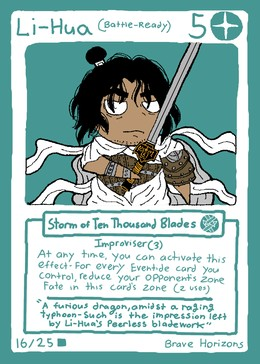
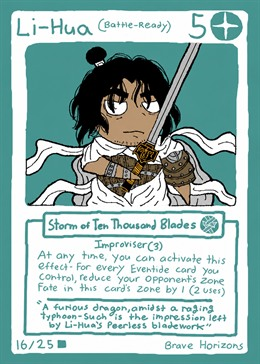
Restore public decks and polish new card updates

diff --git a/src/styles/zz-codex-last.css b/src/styles/zz-codex-last.css
@@ -24761,12 +24761,12 @@ html body #s-game .cell.henry-suppressed-empty::after{
 /* Four-digit Challenger ELO only: retain the normal size for shorter values. */
 html body #s-challenger #ch-elo-val.four-digit-elo{
   position:relative!important;
-  left:-2px!important;
+  left:-3px!important;
   font-size:.9405em!important;
   letter-spacing:inherit!important;
 }
 html body #s-challenger .ch-v5-rank-combined .ch-v5-elo.is-four-digit{
-  left:-2px!important;
+  left:-3px!important;
   font-size:clamp(2.5rem,2.9vw,3.56rem)!important;
   transform:scale(.9405)!important;
   transform-origin:center center!important;
@@ -24982,7 +24982,7 @@ html body #s-social .social-online-command .social-online-card-rank .rank-badge-
 html body #modal .profile-view-badges .rank-badge.rank-badge-two-line .rank-badge-icon,
 html body #modal .profile-view-badges .rank-badge.rank-badge-two-line .rank-badge-label-two-line{
   position:relative!important;
-  left:1px!important;
+  left:4px!important;
 }
 html body #modal .profile-view-badges .rank-badge.rank-badge-two-line .rank-badge-label-two-line{
   display:inline-grid!important;
@@ -25006,6 +25006,64 @@ html body #modal .profile-view-badges .rank-badge.rank-badge-two-line .rank-badg
 html body #toast{
   z-index:2147483601!important;
 }
+
+/* Chloe Kirk: dedicated charter declaration instead of the generic option list. */
+html body #modal .modal.bh14-type-picker-modal{
+  width:min(980px,calc(100vw - 40px))!important;
+  max-width:980px!important;
+  padding:1.45rem 1.55rem 1.55rem!important;
+  overflow:hidden!important;
+  border:1px solid rgba(209,171,69,.82)!important;
+  background:linear-gradient(140deg,rgba(21,51,69,.32),transparent 42%),linear-gradient(180deg,#0c111b,#060910)!important;
+  box-shadow:0 32px 90px rgba(0,0,0,.8),inset 0 0 0 1px rgba(104,205,245,.08)!important;
+}
+html body #modal .modal.bh14-type-picker-modal #modal-title{
+  margin-bottom:.9rem!important;
+  padding-bottom:.72rem!important;
+  color:#efd888!important;
+  border-bottom:1px solid rgba(209,171,69,.3)!important;
+  letter-spacing:.075em!important;
+}
+html body #modal .modal.bh14-type-picker-modal #modal-acts{display:none!important;}
+html body #modal .bh14-charter-picker{display:grid!important;gap:1rem!important;}
+html body #modal .bh14-charter-head{
+  display:grid!important;
+  grid-template-columns:66px minmax(0,1fr)!important;
+  gap:1rem!important;
+  align-items:center!important;
+  padding:.9rem 1rem!important;
+  border:1px solid rgba(91,183,221,.3)!important;
+  border-left:3px solid #72cdec!important;
+  background:linear-gradient(90deg,rgba(24,73,96,.3),rgba(7,12,20,.52))!important;
+}
+html body #modal .bh14-charter-seal{
+  width:58px!important;height:58px!important;display:grid!important;place-items:center!important;
+  border:1px solid rgba(112,205,238,.68)!important;border-radius:50%!important;
+  color:#efd888!important;background:radial-gradient(circle,rgba(29,94,119,.5),rgba(7,13,21,.98) 70%)!important;
+  font:600 .82rem/1 Cinzel,serif!important;letter-spacing:.12em!important;
+  box-shadow:inset 0 0 0 6px rgba(5,10,17,.72),0 0 18px rgba(77,182,222,.12)!important;
+}
+html body #modal .bh14-charter-kicker{display:block!important;color:#77d1ef!important;font:600 .58rem/1 Cinzel,serif!important;letter-spacing:.2em!important;text-transform:uppercase!important;}
+html body #modal .bh14-charter-head strong{display:block!important;margin:.35rem 0 .22rem!important;color:#f3dea0!important;font:600 1.08rem/1.2 Cinzel,serif!important;letter-spacing:.035em!important;text-transform:uppercase!important;}
+html body #modal .bh14-charter-head p{margin:0!important;color:rgba(220,229,236,.68)!important;font:italic .75rem/1.42 Georgia,serif!important;}
+html body #modal .bh14-charter-grid{display:grid!important;grid-template-columns:repeat(5,minmax(0,1fr))!important;gap:.7rem!important;}
+html body #modal .bh14-charter-choice{
+  position:relative!important;min-width:0!important;min-height:184px!important;display:flex!important;flex-direction:column!important;align-items:center!important;
+  padding:.75rem .7rem .68rem!important;overflow:hidden!important;cursor:pointer!important;
+  border:1px solid rgba(170,138,48,.46)!important;border-radius:2px!important;
+  color:#e9d487!important;background:linear-gradient(160deg,rgba(18,32,44,.99),rgba(6,9,15,.99) 74%)!important;
+  box-shadow:inset 0 1px 0 rgba(255,255,255,.03),inset 0 -2px 0 rgba(102,200,236,.06)!important;
+  transition:transform .16s ease,border-color .16s ease,box-shadow .16s ease,background .16s ease!important;
+}
+html body #modal .bh14-charter-choice::before{content:""!important;position:absolute!important;inset:0 0 auto!important;height:2px!important;background:linear-gradient(90deg,transparent,#72cdec,transparent)!important;opacity:.48!important;}
+html body #modal .bh14-charter-choice:hover,html body #modal .bh14-charter-choice:focus-visible{transform:translateY(-4px)!important;border-color:rgba(114,205,236,.88)!important;background:linear-gradient(160deg,rgba(25,54,70,.99),rgba(7,11,18,.99) 75%)!important;box-shadow:0 15px 28px rgba(0,0,0,.38),0 0 20px rgba(83,183,222,.1)!important;outline:none!important;}
+html body #modal .bh14-charter-number{align-self:flex-start!important;color:rgba(114,205,236,.5)!important;font:600 .52rem/1 Cinzel,serif!important;letter-spacing:.16em!important;}
+html body #modal .bh14-charter-glyph{width:48px!important;height:48px!important;display:grid!important;place-items:center!important;margin:.65rem 0 .7rem!important;border:1px solid rgba(211,172,69,.56)!important;border-radius:50%!important;color:#efd477!important;background:radial-gradient(circle,rgba(121,89,20,.18),rgba(7,12,19,.96) 72%)!important;font:600 .62rem/1 Cinzel,serif!important;letter-spacing:.06em!important;}
+html body #modal .bh14-charter-name{color:#f2dc96!important;font:600 .73rem/1.2 Cinzel,serif!important;letter-spacing:.04em!important;text-transform:uppercase!important;text-align:center!important;}
+html body #modal .bh14-charter-desc{margin:.42rem 0 .7rem!important;color:rgba(208,218,225,.62)!important;font:italic .65rem/1.35 Georgia,serif!important;text-align:center!important;}
+html body #modal .bh14-charter-select{width:100%!important;margin-top:auto!important;padding-top:.55rem!important;border-top:1px solid rgba(161,131,42,.25)!important;color:#75cae8!important;font:600 .52rem/1 Cinzel,serif!important;letter-spacing:.14em!important;text-transform:uppercase!important;text-align:left!important;}
+html body #modal .bh14-charter-select b{float:right!important;color:#efd477!important;font-size:.8rem!important;}
+@media(max-width:820px){html body #modal .bh14-charter-grid{grid-template-columns:repeat(2,minmax(0,1fr))!important;}html body #modal .bh14-charter-choice{min-height:150px!important;}}
 
 /* Public deck cards keep a stable footprint under the pointer. */
 html body #modal .pd-library-v3 .pd-v3-grid .pdx-card,

diff --git a/src/scripts/05-gameplay-core.js b/src/scripts/05-gameplay-core.js
@@ -6259,23 +6259,33 @@ async function chooseCharterOfUnitedNationsType(card, cp) {
     const declaredType = 'Supporter';
     return applyCharterOfUnitedNations(eligible.filter(function(candidate){ return String(candidate.type || '') !== declaredType; }), declaredType, cp);
   }
+  const declaredType = await showCharterTypeDeclarationPicker();
+  if(!declaredType) return applyCharterOfUnitedNations([], '', cp);
+  return new Promise(function(resolve){ selectCards(declaredType, resolve); });
+}
+
+function showCharterTypeDeclarationPicker(onChoose) {
   return new Promise(function(resolve){
     let settled = false;
     const labels = {Supporter:'Supporter', Initiator:'Initiator', Improvisor:'Improviser', Coordinator:'Coordinator', Dauntless:'Dauntless'};
-    const descriptions = {Supporter:'Recognized by Supporter effects', Initiator:'Recognized by Initiator effects', Improvisor:'Recognized by Improviser effects', Coordinator:'Recognized by Coordinator effects', Dauntless:'Recognized by Dauntless effects'};
-    const body = '<div class="bh04-type-picker"><div class="bh04-type-picker-intro"><span class="bh04-type-picker-kicker">Charter declaration</span><strong>Choose an effect-facing card type</strong><p>The printed card type still controls setting, consolidation, and Supporter limits.</p></div><div class="bh04-type-grid">' +
-      BRAVE_HORIZONS_DECLARABLE_CARD_TYPES.map(function(type){
-        return '<button type="button" class="btn bh04-type-choice" data-bh14-type="' + escapeHtml(type) + '"><span class="bh04-type-index">TYPE</span><span class="bh04-type-name">' + escapeHtml(labels[type] || type) + '</span><span class="bh04-type-action">' + escapeHtml(descriptions[type] || 'Declare this type') + '</span></button>';
+    const descriptions = {Supporter:'Supply and support effects', Initiator:'Opening and tempo effects', Improvisor:'Flexible activated effects', Coordinator:'Persistent field effects', Dauntless:'Resilient combat effects'};
+    const glyphs = {Supporter:'SUP', Initiator:'INI', Improvisor:'IMP', Coordinator:'COR', Dauntless:'DAU'};
+    const body = '<div class="bh14-charter-picker"><div class="bh14-charter-head"><span class="bh14-charter-seal">UN</span><div><span class="bh14-charter-kicker">Charter declaration</span><strong>Declare a card type</strong><p>Effects will recognize the chosen type. Printed placement and consolidation rules stay unchanged.</p></div></div><div class="bh14-charter-grid">' +
+      BRAVE_HORIZONS_DECLARABLE_CARD_TYPES.map(function(type, index){
+        return '<button type="button" class="bh14-charter-choice" data-bh14-type="' + escapeHtml(type) + '"><span class="bh14-charter-number">0' + (index + 1) + '</span><span class="bh14-charter-glyph">' + escapeHtml(glyphs[type]) + '</span><span class="bh14-charter-name">' + escapeHtml(labels[type] || type) + '</span><span class="bh14-charter-desc">' + escapeHtml(descriptions[type]) + '</span><span class="bh14-charter-select">Declare <b>→</b></span></button>';
       }).join('') + '</div></div>';
     const actions = BRAVE_HORIZONS_DECLARABLE_CARD_TYPES.map(function(declaredType){
       return {label:'Declare ' + (labels[declaredType] || declaredType), pri:true, hidden:true, action:function(){
         if(settled) return;
         settled = true;
         closeModal();
-        setTimeout(function(){ selectCards(declaredType, resolve); }, 0);
+        if(typeof onChoose === 'function') onChoose(declaredType);
+        resolve(declaredType);
       }};
     });
     showModal('Charter of the United Nations', body, actions, {onOpen:function(){
+      const modalBox = document.querySelector('#modal .modal');
+      if(modalBox) modalBox.classList.add('bh14-type-picker-modal');
       document.querySelectorAll('#modal .bh04-type-choice[data-bh14-type]').forEach(function(button){
         button.onclick = function(){
           const type = String(button.getAttribute('data-bh14-type') || '');
@@ -6290,6 +6300,7 @@ async function chooseCharterOfUnitedNationsType(card, cp) {
   });
 }
 if(typeof window !== 'undefined') window.chooseCharterOfUnitedNationsType = chooseCharterOfUnitedNationsType;
+if(typeof window !== 'undefined') window.showCharterTypeDeclarationPicker = showCharterTypeDeclarationPicker;
 
 async function chooseFlowerKingTarget(inst, z, r, c, cp) {
   const entries = getAdjacentBoardSquareEntries(z, r, c);

diff --git a/src/scripts/20-online-economy.js b/src/scripts/20-online-economy.js
@@ -257,9 +257,24 @@
     const base = authorityHttpBaseUrl();
     if(!base) throw new Error('Fly authority API URL is not configured');
     const headers = {'accept':'application/json'};
-    const token = await FO.auth?.currentUser?.getIdToken?.().catch(()=> '');
-    if(token) headers.authorization = 'Bearer ' + token;
     const method = String(opts.method || 'GET').toUpperCase();
+    const account = method === 'GET' ? authUser() : await waitForAuthUser(3500);
+    const token = await account?.getIdToken?.().catch(()=> '');
+    if(method !== 'GET' && !token) throw new Error('Your Google account is still restoring. Please try again in a moment.');
+    if(token) headers.authorization = 'Bearer ' + token;
+    const electronApi = window.FateElectronFlyApi;
+    if(electronApi && typeof electronApi.request === 'function'){
+      const bridged = await electronApi.request({
+        route:path,
+        method,
+        authorization:token ? 'Bearer ' + token : '',
+        body:opts.body
+      });
+      if(!bridged?.ok){
+        throw new Error('Fly economy API failed: ' + Number(bridged?.status || 0) + ' ' + String(bridged?.error || bridged?.data?.error || bridged?.text || 'request failed').slice(0,160));
+      }
+      return bridged.data || {};
+    }
     const init = {method, headers};
     if(method === 'GET') init.cache = 'no-store';
     if(opts.body !== undefined){

diff --git a/electron/main.js b/electron/main.js
@@ -355,6 +355,31 @@ ipcMain.handle('fate:get-performance-info', (event) => {
   };
 });
 
+ipcMain.handle('fate:fly-api-request', async (_event, request = {}) => {
+  const route = String(request.route || '');
+  const method = String(request.method || 'GET').toUpperCase();
+  if(!route.startsWith('/api/') || !['GET','POST'].includes(method)){
+    return {ok:false, status:400, error:'Invalid Fly API request'};
+  }
+  const headers = {'accept':'application/json'};
+  const authorization = String(request.authorization || '');
+  if(authorization.startsWith('Bearer ')) headers.authorization = authorization;
+  const init = {method, headers};
+  if(method === 'POST'){
+    headers['content-type'] = 'application/json';
+    init.body = JSON.stringify(request.body || {});
+  }
+  try{
+    const response = await fetch(DEFAULT_FLY_AUTHORITY_API_URL + route, init);
+    const text = await response.text();
+    let data = null;
+    try{ data = text ? JSON.parse(text) : {}; }catch(_err){}
+    return {ok:response.ok, status:response.status, data, text:text.slice(0,1000)};
+  }catch(error){
+    return {ok:false, status:0, error:String(error && error.message || error)};
+  }
+});
+
 ipcMain.handle('fate:start-ui-minute-log', async (event, meta) => {
   const sessionId = sanitizeDiagnosticSessionId(meta && meta.sessionId);
   const paths = diagnosticPaths(sessionId);

diff --git a/src/scripts/01-data-and-state.js b/src/scripts/01-data-and-state.js
@@ -523,8 +523,8 @@ const CARDS = [
     flavor:'"Despite their comparisons, Ling\'s invasion of Qingdao and conquest of China in 2035 overshadow MacArthur\'s own feats"',img:'bh15.png?v=20260823a'},
   {id:'bh16',name:'Li-Hua (Battle-Ready)',ability:'Storm of Ten Thousand Blades',type:'Improvisor',aff:'eventide',
     fate:5,cost:3,rarity:'square',set:'brave_horizons',
-    effect:'At any time, you can activate this effect—for every Eventide card you control, reduce your opponent\'s Zone Fate in this card\'s Zone. (2 uses)',
-    flavor:'"A furious dragon, amidst a raging typhoon—such is the impression left by Li-Hua\'s peerless bladework"',img:'bh16.png?v=20260823a'},
+    effect:'At any time, you can activate this effect—for every Eventide card you control, reduce your opponent\'s Zone Fate in this card\'s Zone by 1. (2 uses)',
+    flavor:'"A furious dragon, amidst a raging typhoon—such is the impression left by Li-Hua\'s peerless bladework"',img:'bh16.png?v=20260824b'},
   {id:'bh25',name:'Jimmy (Viltrumite)',ability:'Left Hook of the Incel',type:'Dauntless',aff:'reality',
     fate:8,cost:3,rarity:'square',set:'brave_horizons',retired:true,
     effect:'When set, discard any card on the field.',

diff --git a/src/scripts/18-online-rooms.js b/src/scripts/18-online-rooms.js
@@ -4809,6 +4809,7 @@
     if(['51','66','77','90'].includes(sourceId) && modal.querySelector('.aff-pick-square[data-aff]')) return true;
     if(sourceId === '82' && modal.querySelector('.landscape-choice-card[data-landscape-id]')) return true;
     if(sourceId === 'bh04' && modal.querySelector('.bh04-type-choice[data-bh04-type]')) return true;
+    if(sourceId === 'bh14' && modal.querySelector('.bh14-charter-choice[data-bh14-type]')) return true;
     if(prompt?.type === 'ZONE_SELECTION' && modal.querySelector('.zone-picker-tile[data-zone]')) return true;
     return false;
   }
@@ -5117,6 +5118,18 @@
         });
       };
       bindTypeButtons(0);
+      return;
+    }
+    if(prompt?.type === 'MODAL_CHOICE' && sourceId === 'bh14'
+      && typeof window.showCharterTypeDeclarationPicker === 'function'){
+      let submitted = false;
+      withOnlinePromptBypass(gameState(), function(){
+        window.showCharterTypeDeclarationPicker(function(cardType){
+          if(submitted) return;
+          submitted = true;
+          submitChoice(cardType, 'choice');
+        });
+      });
       return;
     }
     if(prompt?.type === 'ZONE_SELECTION' && typeof window.showZonePickerVisual === 'function'){

diff --git a/index.html b/index.html
@@ -650,7 +650,7 @@
     './src/scripts/17-online-social.js?v=1788000401',
     './src/scripts/18-online-rooms.js?v=1788001301&sync=1788001301',
     './src/scripts/19-online-elo.js?v=1788000401',
-    './src/scripts/20-online-economy.js?v=1788001101'
+    './src/scripts/20-online-economy.js?v=1788001501'
   ];
   var isElectron = /[?&]electron=1(?:&|$)/.test(location.search || '') || /Electron/i.test(navigator.userAgent || '');
   var promise = null;

diff --git a/electron/preload.js b/electron/preload.js
@@ -36,6 +36,12 @@ contextBridge.exposeInMainWorld('FateElectronAuthBridge', {
   }
 });
 
+contextBridge.exposeInMainWorld('FateElectronFlyApi', {
+  request(options) {
+    return ipcRenderer.invoke('fate:fly-api-request', options || {});
+  }
+});
+
 contextBridge.exposeInMainWorld('FateDesktopUpdater', {
   getState() {
     return ipcRenderer.invoke('fate:desktop-update-get-state');
